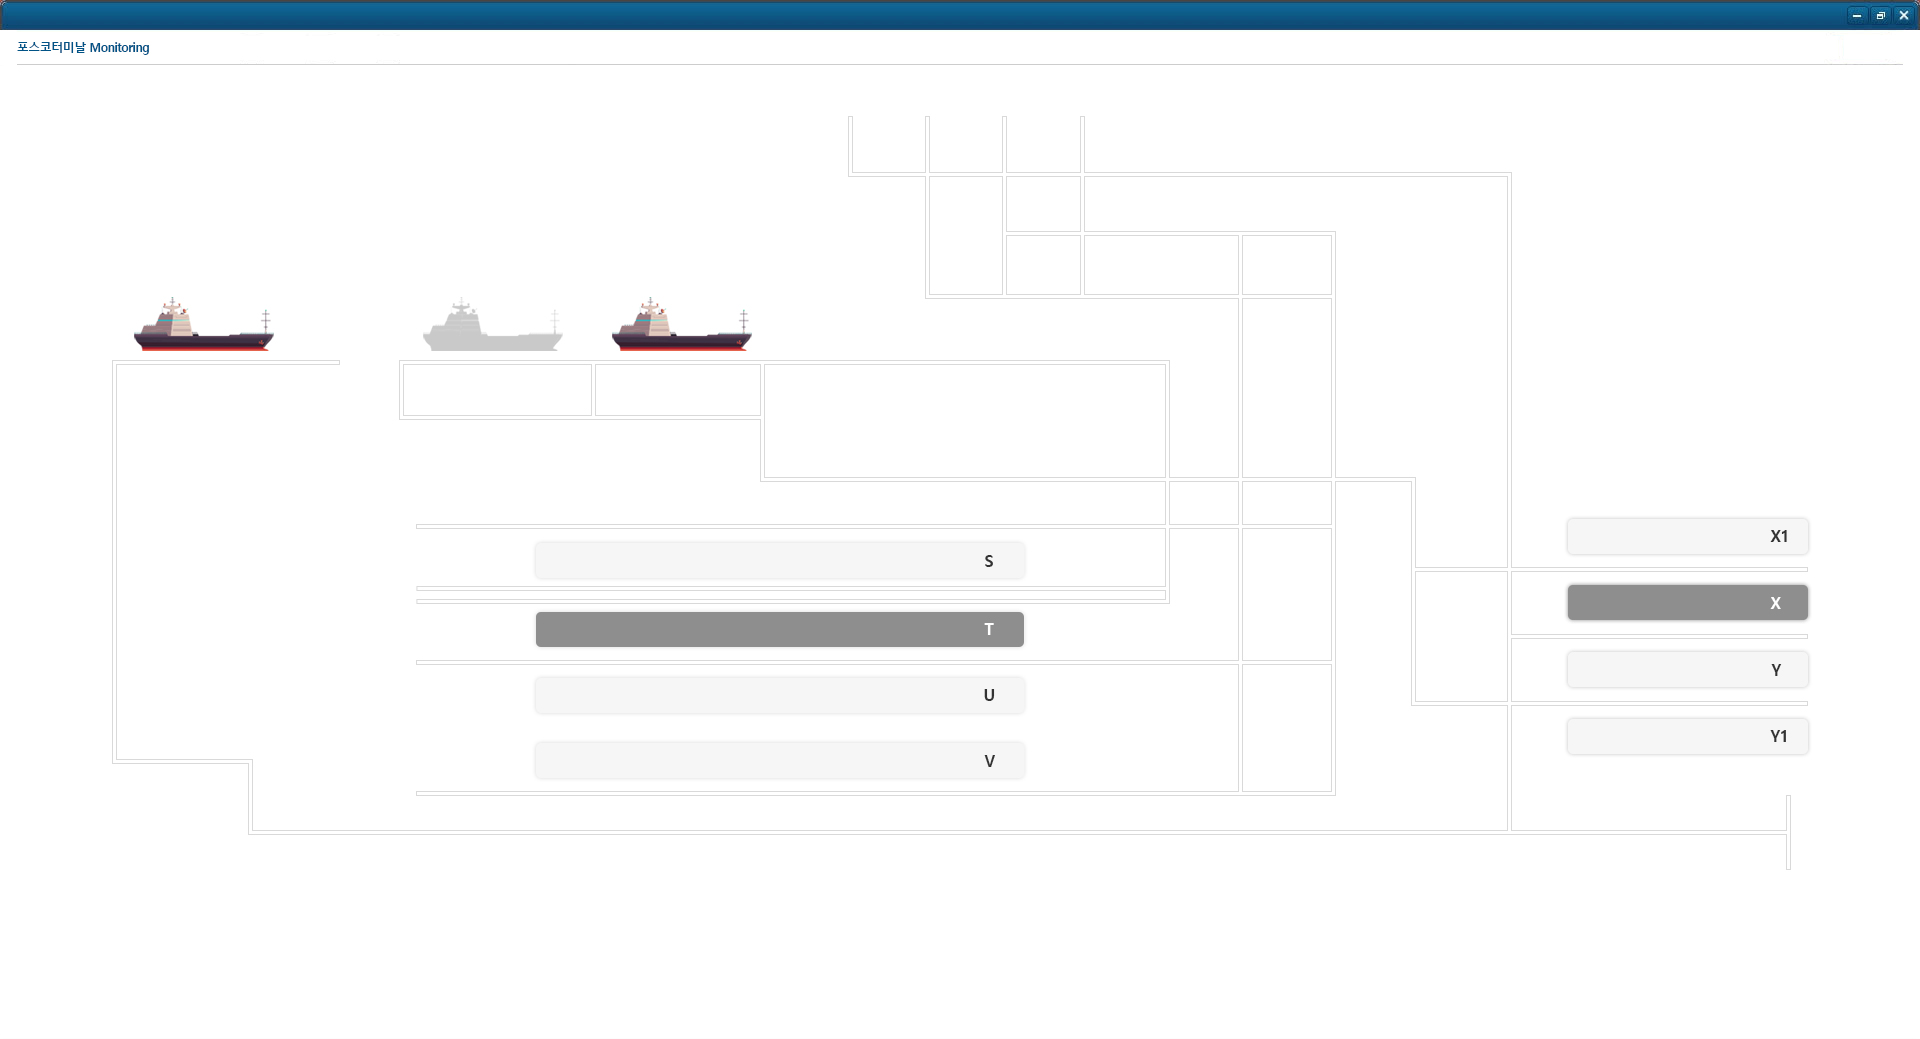
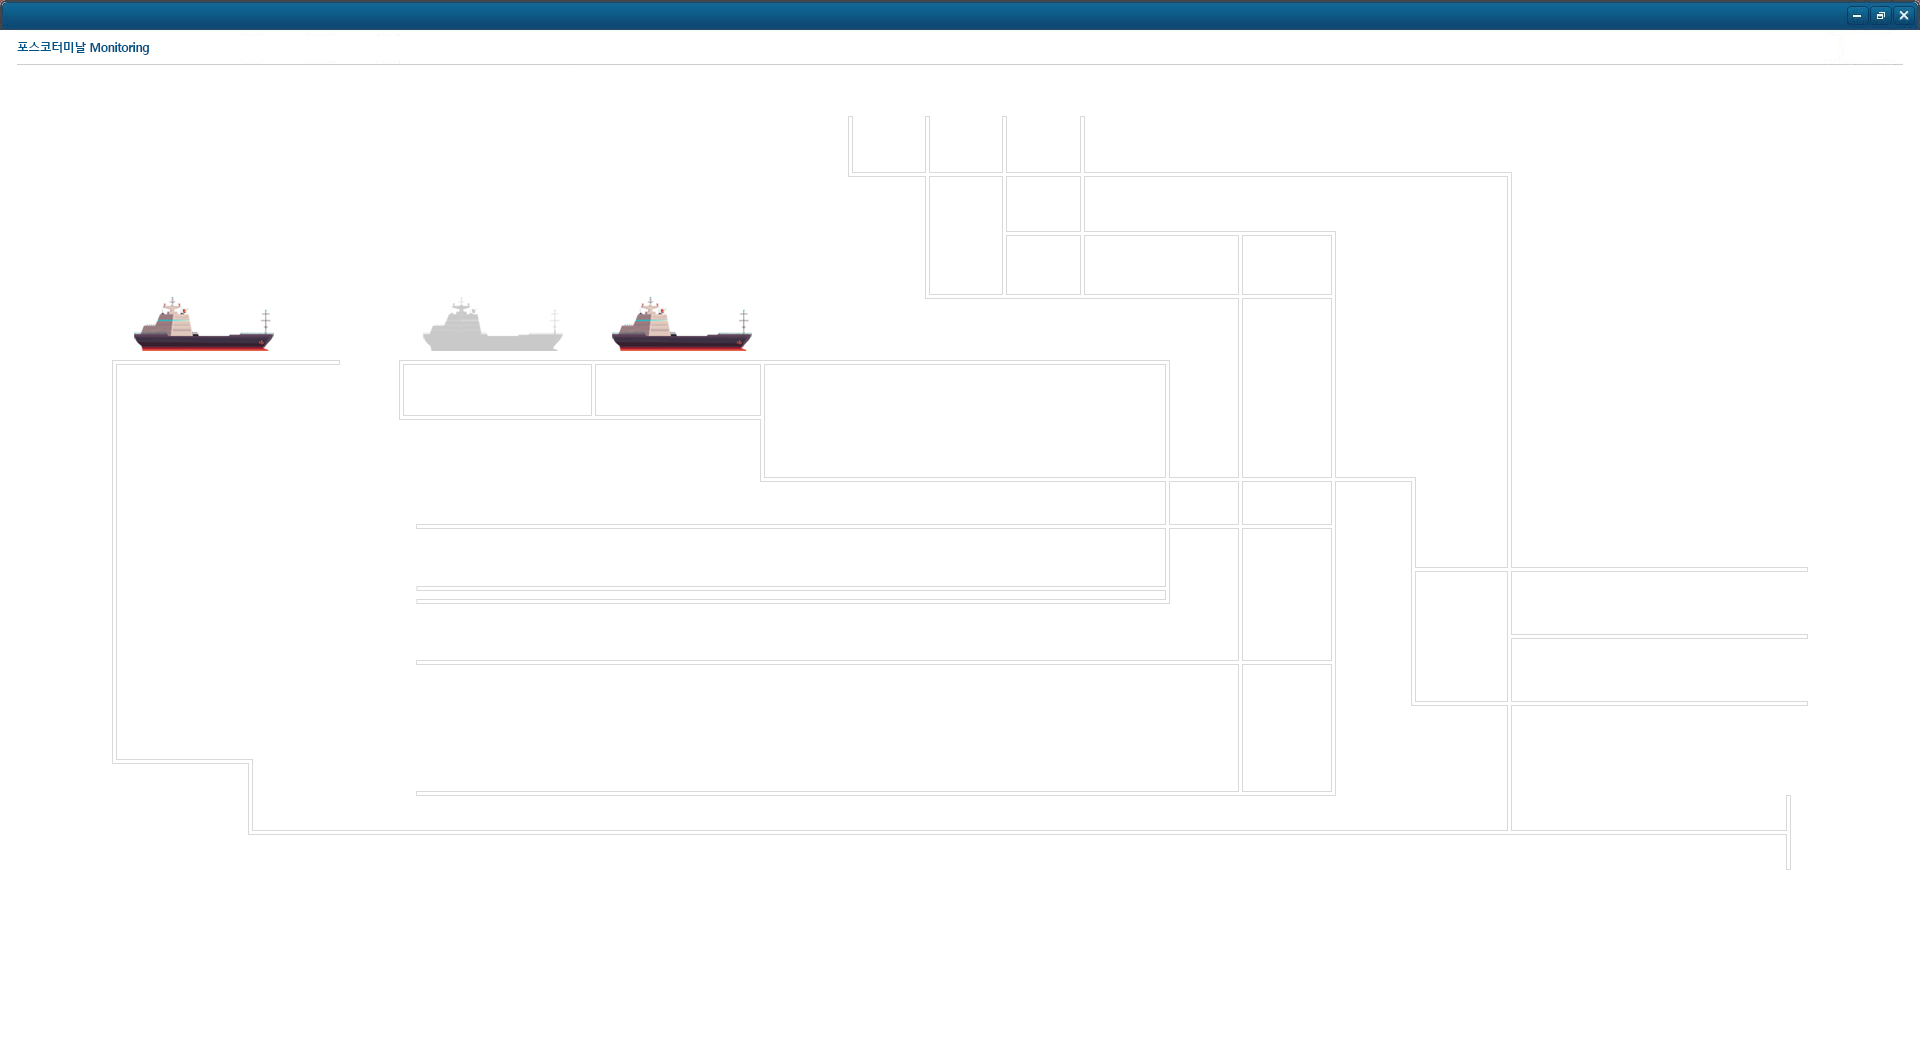
css수정

Changed region(s): [[0.2812, 0.5852, 0.5312, 0.6468], [0.8125, 0.5544, 0.9688, 0.616]]

diff --git a/view.css b/view.css
@@ -151,33 +151,33 @@
 
 		/* 리크레이머 영역 */
 		.reclaimer_area > div{position:absolute;}
-		.rc511{left: 567px;bottom: 433px;width: 65px; height: 65px; background:url('img/reclaimer_on_new.gif')no-repeat; cursor:pointer;}
+		.rc511{left: 567px;bottom: 433px;width: 65px; height: 65px; background:url('img/reclaimer_on_new.gif')no-repeat; cursor:pointer; z-index:2;}
 		/* .rc511 .rc_on{position:absolute; bottom:-12px; left:-10px;} */
-		.rc511 .rc_on{position:relative; left: 16px; top: 7px; font-weight:bold; font-size:12px; transform: rotate(-41deg);}
-		.rc512{left:894px; bottom: 471px; width:88px; height:30px; background:url('img/reclaimer_off.gif')no-repeat;}
-		.rc512 .rc_off{position:relative;left: 33px;top: 8px;font-weight:bold;font-size:12px;}
+		.rc511 .rc_on{position:relative; left: 16px; top: 7px; font-weight:bold; font-size:12px; transform: rotate(-41deg); z-index:2;}
+		.rc512{left:894px; bottom: 471px; width:88px; height:30px; background:url('img/reclaimer_off.gif')no-repeat; z-index:2;}
+		.rc512 .rc_off{position:relative;left: 33px;top: 8px;font-weight:bold;font-size:12px; z-index:2;}
 
-		.rc513{left:543px;bottom: 338px;width:88px;height:30px;background:url('img/reclaimer_off.gif')no-repeat;}
-		.rc513 .rc_off{position:relative; left:35px; top:7px; font-weight:bold; font-size:12px;}
+		.rc513{left:543px;bottom: 338px;width:88px;height:30px;background:url('img/reclaimer_off.gif')no-repeat; z-index:2;}
+		.rc513 .rc_off{position:relative; left:35px; top:7px; font-weight:bold; font-size:12px; z-index:2;}
 
-		.rc514{left:894px;bottom: 338px;width:88px;height:30px;background:url('img/reclaimer_off.gif')no-repeat;}
-		.rc514 .rc_off{position:relative;left: 33px;top: 8px;font-weight:bold;font-size:12px;}
+		.rc514{left:894px;bottom: 338px;width:88px;height:30px;background:url('img/reclaimer_off.gif')no-repeat; z-index:2;}
+		.rc514 .rc_off{position:relative;left: 33px;top: 8px;font-weight:bold;font-size:12px; z-index:2;}
 
-		.rc611{right:130px;bottom: 458px;width: 65px; height: 65px;  background:url('img/reclaimer_on_new.gif')no-repeat;}
-		.rc611 .rc_on{position:relative; left: 16px; top: 7px; font-weight:bold; font-size:12px; transform:rotate(-40deg)}
-		.rc612{right:130px;bottom: 363px;width:88px;height:30px;background:url('img/reclaimer_off.gif')no-repeat;}
-		.rc612 .rc_off{position:relative; left:35px; top:8px; font-weight:bold; font-size:12px;}
+		.rc611{right:130px;bottom: 458px;width: 65px; height: 65px;  background:url('img/reclaimer_on_new.gif')no-repeat; z-index:2;}
+		.rc611 .rc_on{position:relative; left: 16px; top: 7px; font-weight:bold; font-size:12px; transform:rotate(-40deg); z-index:2;}
+		.rc612{right:130px;bottom: 363px;width:88px;height:30px;background:url('img/reclaimer_off.gif')no-repeat; z-index:2;}
+		.rc612 .rc_off{position:relative; left:35px; top:8px; font-weight:bold; font-size:12px; z-index:2;}
 
 		/* 스태커 영역 */
 		.stack_area > div{position:absolute;}
-		.st501{left:762px; bottom: 540px; width:88px; height:30px; background:url('img/stacker_off.gif')no-repeat;}
-		.st501 .st_off{position:relative; left: 26px; top: 7px; font-weight:bold; font-size:12px;}
-		.st502{left:740px; bottom: 387px; width:95px; height:81px;  background:url('img/stacker_on.gif')no-repeat; cursor:pointer;}
-		.st502 .st_on{position: relative; left: 14px; top: 2px; font-weight: bold; font-size: 12px; transform: rotate(-42deg);}
-		.st503{left:762px;bottom: 272px; width:88px; height:30px; background:url('img/stacker_off.gif')no-repeat;}
+		.st501{left:762px; bottom: 540px; width:88px; height:30px; background:url('img/stacker_off.gif')no-repeat; z-index:2;}
+		.st501 .st_off{position:relative; left: 26px; top: 7px; font-weight:bold; font-size:12px; z-index:2;}
+		.st502{left:740px; bottom: 387px; width:95px; height:81px;  background:url('img/stacker_on.gif')no-repeat; cursor:pointer; z-index:2;}
+		.st502 .st_on{position: relative; left: 14px; top: 2px; font-weight: bold; font-size: 12px; transform: rotate(-42deg); z-index:2;}
+		.st503{left:762px;bottom: 272px; width:88px; height:30px; background:url('img/stacker_off.gif')no-repeat; z-index:2;}
 		.st503 .st_off{position:relative; left: 26px; top: 7px; font-weight:bold; font-size:12px;}
-		.st601{right:125px; bottom:430px; width:88px; height:30px; background:url('img/stacker_off.gif')no-repeat;}
-		.st601 .st_off{position:relative; left: 26px; top: 7px; font-weight:bold; font-size:12px;}
+		.st601{right:125px; bottom:430px; width:88px; height:30px; background:url('img/stacker_off.gif')no-repeat; z-index:2;}
+		.st601 .st_off{position:relative; left: 26px; top: 7px; font-weight:bold; font-size:12px; z-index:2;}
 
 		/* SL 영역 */
 		.sl_area > div{position:absolute;}
@@ -450,7 +450,33 @@
 		.wind_info p .w_value.green{color:#0bc300;}
 		.wind_info h3{font-size:16px; color:#333;}
 
-		/* 좌측 야드 */
-		.l_yard_area{position:absolute; left:530px; bottom:498px;}
-		.l_yard_area p{width:490px; height:35px; display:block;}
-		.l_yard_area .s_yard{background:url('img/l_yard_off.png')no-repeat;}
+	/* 좌측 야드 */
+		.l_yard_area{position:absolute; left:535px; bottom:302px; z-index:1;}
+		.l_yard_area p{width:490px; height:35px; display:block; text-align:right; background:#f6f6f6; position:static; border-radius:8px; box-shadow: 0px 0px 5px 0px rgba(0, 0, 0, 0.2); position:relative;}
+		.l_yard_area p:before{position:absolute; width:20px; height:20px; right:20px; top:10px; font-size:16px; font-weight:bold;}
+		.l_yard_area .v_yard{margin-top:30px;}
+		.l_yard_area .u_yard{margin-top:30px;}
+		.l_yard_area .t_yard{margin-top:35px;}
+		.l_yard_area .t_yard.on{background:#8e8e8e;}
+		.l_yard_area .s_yard{margin-top:0px;}
+		.l_yard_area .v_yard:before{content:'V';}
+		.l_yard_area .u_yard:before{content:'U';}
+		.l_yard_area .t_yard:before{content:'T';}
+		.l_yard_area .t_yard.on:before{color:#fff;}
+		.l_yard_area .s_yard:before{content:'S';}
+
+
+	/* 우측 야드 */
+		.r_yard_area{position:absolute; right:112px; bottom:327px; z-index:1;}
+		.r_yard_area p{width:240px; height:35px; display:block; text-align:right; background:#f6f6f6; position:static; border-radius:8px; box-shadow: 0px 0px 5px 0px rgba(0, 0, 0, 0.2); position:relative;}
+		.r_yard_area p:before{position:absolute; width:20px; height:20px; right:20px; top:10px; font-size:16px; font-weight:bold;}
+		.r_yard_area .y1_yard{margin-top:30px;}
+		.r_yard_area .y_yard{margin-top:33px;}
+		.r_yard_area .x_yard{margin-top:32px;}
+		.r_yard_area .x_yard.on{background:#8e8e8e;}
+		.r_yard_area .x1_yard{margin-top:0px;}
+		.r_yard_area .y1_yard:before{content:'Y1';}
+		.r_yard_area .y_yard:before{content:'Y';}
+		.r_yard_area .x_yard:before{content:'X';}
+		.r_yard_area .x_yard.on:before{color:#fff;}
+		.r_yard_area .x1_yard:before{content:'X1';}

diff --git a/view1_3.css b/view1_3.css
@@ -151,33 +151,33 @@
 
 		/* 리크레이머 영역 */
 		.reclaimer_area > div{position:absolute;}
-		.rc511{left: 567px;bottom: 433px;width: 65px; height: 65px; background:url('img/reclaimer_on_new.gif')no-repeat; cursor:pointer;}
+		.rc511{left: 567px;bottom: 433px;width: 65px; height: 65px; background:url('img/reclaimer_on_new.gif')no-repeat; cursor:pointer; z-index:2;}
 		/* .rc511 .rc_on{position:absolute; bottom:-12px; left:-10px;} */
-		.rc511 .rc_on{position:relative; left: 16px; top: 7px; font-weight:bold; font-size:12px; transform: rotate(-41deg);}
-		.rc512{left:894px; bottom: 471px; width:88px; height:30px; background:url('img/reclaimer_off.gif')no-repeat;}
-		.rc512 .rc_off{position:relative;left: 33px;top: 8px;font-weight:bold;font-size:12px;}
+		.rc511 .rc_on{position:relative; left: 16px; top: 7px; font-weight:bold; font-size:12px; transform: rotate(-41deg); z-index:2;}
+		.rc512{left:894px; bottom: 471px; width:88px; height:30px; background:url('img/reclaimer_off.gif')no-repeat; z-index:2;}
+		.rc512 .rc_off{position:relative;left: 33px;top: 8px;font-weight:bold;font-size:12px; z-index:2;}
 
-		.rc513{left:543px;bottom: 338px;width:88px;height:30px;background:url('img/reclaimer_off.gif')no-repeat;}
-		.rc513 .rc_off{position:relative; left:35px; top:7px; font-weight:bold; font-size:12px;}
+		.rc513{left:543px;bottom: 338px;width:88px;height:30px;background:url('img/reclaimer_off.gif')no-repeat; z-index:2;}
+		.rc513 .rc_off{position:relative; left:35px; top:7px; font-weight:bold; font-size:12px; z-index:2;}
 
-		.rc514{left:894px;bottom: 338px;width:88px;height:30px;background:url('img/reclaimer_off.gif')no-repeat;}
-		.rc514 .rc_off{position:relative;left: 33px;top: 8px;font-weight:bold;font-size:12px;}
+		.rc514{left:894px;bottom: 338px;width:88px;height:30px;background:url('img/reclaimer_off.gif')no-repeat; z-index:2;}
+		.rc514 .rc_off{position:relative;left: 33px;top: 8px;font-weight:bold;font-size:12px; z-index:2;}
 
-		.rc611{right:130px;bottom: 458px;width: 65px; height: 65px;  background:url('img/reclaimer_on_new.gif')no-repeat;}
-		.rc611 .rc_on{position:relative; left: 16px; top: 7px; font-weight:bold; font-size:12px; transform:rotate(-40deg)}
-		.rc612{right:130px;bottom: 363px;width:88px;height:30px;background:url('img/reclaimer_off.gif')no-repeat;}
-		.rc612 .rc_off{position:relative; left:35px; top:8px; font-weight:bold; font-size:12px;}
+		.rc611{right:130px;bottom: 458px;width: 65px; height: 65px;  background:url('img/reclaimer_on_new.gif')no-repeat; z-index:2;}
+		.rc611 .rc_on{position:relative; left: 16px; top: 7px; font-weight:bold; font-size:12px; transform:rotate(-40deg); z-index:2;}
+		.rc612{right:130px;bottom: 363px;width:88px;height:30px;background:url('img/reclaimer_off.gif')no-repeat; z-index:2;}
+		.rc612 .rc_off{position:relative; left:35px; top:8px; font-weight:bold; font-size:12px; z-index:2;}
 
 		/* 스태커 영역 */
 		.stack_area > div{position:absolute;}
-		.st501{left:762px; bottom: 540px; width:88px; height:30px; background:url('img/stacker_off.gif')no-repeat;}
-		.st501 .st_off{position:relative; left: 26px; top: 7px; font-weight:bold; font-size:12px;}
-		.st502{left:740px; bottom: 387px; width:95px; height:81px;  background:url('img/stacker_on.gif')no-repeat; cursor:pointer;}
-		.st502 .st_on{position: relative; left: 14px; top: 2px; font-weight: bold; font-size: 12px; transform: rotate(-42deg);}
-		.st503{left:762px;bottom: 272px; width:88px; height:30px; background:url('img/stacker_off.gif')no-repeat;}
+		.st501{left:762px; bottom: 540px; width:88px; height:30px; background:url('img/stacker_off.gif')no-repeat; z-index:2;}
+		.st501 .st_off{position:relative; left: 26px; top: 7px; font-weight:bold; font-size:12px; z-index:2;}
+		.st502{left:740px; bottom: 387px; width:95px; height:81px;  background:url('img/stacker_on.gif')no-repeat; cursor:pointer; z-index:2;}
+		.st502 .st_on{position: relative; left: 14px; top: 2px; font-weight: bold; font-size: 12px; transform: rotate(-42deg); z-index:2;}
+		.st503{left:762px;bottom: 272px; width:88px; height:30px; background:url('img/stacker_off.gif')no-repeat; z-index:2;}
 		.st503 .st_off{position:relative; left: 26px; top: 7px; font-weight:bold; font-size:12px;}
-		.st601{right:125px; bottom:430px; width:88px; height:30px; background:url('img/stacker_off.gif')no-repeat;}
-		.st601 .st_off{position:relative; left: 26px; top: 7px; font-weight:bold; font-size:12px;}
+		.st601{right:125px; bottom:430px; width:88px; height:30px; background:url('img/stacker_off.gif')no-repeat; z-index:2;}
+		.st601 .st_off{position:relative; left: 26px; top: 7px; font-weight:bold; font-size:12px; z-index:2;}
 
 		/* SL 영역 */
 		.sl_area > div{position:absolute;}
@@ -450,7 +450,33 @@
 		.wind_info p .w_value.green{color:#0bc300;}
 		.wind_info h3{font-size:16px; color:#333;}
 
-		/* 좌측 야드 */
-		.l_yard_area{position:absolute; left:530px; bottom:498px;}
-		.l_yard_area p{width:490px; height:35px; display:block;}
-		.l_yard_area .s_yard{background:url('img/l_yard_off.png')no-repeat;}
+	/* 좌측 야드 */
+		.l_yard_area{position:absolute; left:535px; bottom:302px; z-index:1;}
+		.l_yard_area p{width:490px; height:35px; display:block; text-align:right; background:#f6f6f6; position:static; border-radius:8px; box-shadow: 0px 0px 5px 0px rgba(0, 0, 0, 0.2); position:relative;}
+		.l_yard_area p:before{position:absolute; width:20px; height:20px; right:20px; top:10px; font-size:16px; font-weight:bold;}
+		.l_yard_area .v_yard{margin-top:30px;}
+		.l_yard_area .u_yard{margin-top:30px;}
+		.l_yard_area .t_yard{margin-top:35px;}
+		.l_yard_area .t_yard.on{background:#8e8e8e;}
+		.l_yard_area .s_yard{margin-top:0px;}
+		.l_yard_area .v_yard:before{content:'V';}
+		.l_yard_area .u_yard:before{content:'U';}
+		.l_yard_area .t_yard:before{content:'T';}
+		.l_yard_area .t_yard.on:before{color:#fff;}
+		.l_yard_area .s_yard:before{content:'S';}
+
+
+	/* 우측 야드 */
+		.r_yard_area{position:absolute; right:112px; bottom:327px; z-index:1;}
+		.r_yard_area p{width:240px; height:35px; display:block; text-align:right; background:#f6f6f6; position:static; border-radius:8px; box-shadow: 0px 0px 5px 0px rgba(0, 0, 0, 0.2); position:relative;}
+		.r_yard_area p:before{position:absolute; width:20px; height:20px; right:20px; top:10px; font-size:16px; font-weight:bold;}
+		.r_yard_area .y1_yard{margin-top:30px;}
+		.r_yard_area .y_yard{margin-top:33px;}
+		.r_yard_area .x_yard{margin-top:32px;}
+		.r_yard_area .x_yard.on{background:#8e8e8e;}
+		.r_yard_area .x1_yard{margin-top:0px;}
+		.r_yard_area .y1_yard:before{content:'Y1';}
+		.r_yard_area .y_yard:before{content:'Y';}
+		.r_yard_area .x_yard:before{content:'X';}
+		.r_yard_area .x_yard.on:before{color:#fff;}
+		.r_yard_area .x1_yard:before{content:'X1';}

diff --git a/view1_2.html b/view1_2.html
@@ -405,7 +405,6 @@
 						<div class="offline_tag">
 							<p class="a121-1">A121-1</p>
 							<p class="a601">A601</p>
-							<p class="a604">A604</p>
 							<p class="a511">A511</p>
 							<p class="a512">A512</p>
 							<p class="a513">A513</p>
@@ -415,7 +414,8 @@
 							<p class="a504">A504</p>
 							<p class="a514">A514</p>
 							<p class="a605">A605</p>
-							<p class="c602">C602</p>
+							<p class="a604">A604</p>
+							<!--<p class="a602">A602</p>-->
 							<p class="a810">A810</p>
 						</div>
 
@@ -452,11 +452,22 @@
 								<p class="pm_ico">PM10<span class="w_value green">10</span></p>
 							</div>
 						</div>
+						<div class="l_yard_area">
+							<p class="s_yard"></p>
+							<p class="t_yard on"></p>
+							<p class="u_yard"></p>
+							<p class="v_yard"></p>
+						</div>
+						<div class="r_yard_area">
+							<p class="x1_yard"></p>
+							<p class="x_yard on"></p>
+							<p class="y_yard"></p>
+							<p class="y1_yard"></p>
+						</div>
 					</div>
 				</div>
 			</div>
 		</div>
-
 
 		<div class="popup_area notice_popup">
 			<h2>알림 상세정보</h2>
@@ -557,11 +568,10 @@
 					<button class="save_btn popup_btn">저장</button>
 				</div>
 				<div class="repair_write">
-					<h4>정비 리스트</h4>
 					<div class="data_check">
 						<p>기간<span class="check_form"><input type="data" class="form start_datapick"/> ~ <input type="data" class="form start_datapick"/></span></p>
-						<button class="list_btn btn popup_btn">조회</button>
 					</div>
+					<button class="list_btn btn popup_btn">조회</button>
 					<table>
 						<tr>
 							<td class="t_title title_num">NO</td>
@@ -828,7 +838,7 @@
 			<h2>오류 상세정보</h2>
 			<div class="table_area">
 				<div class="bump_info">
-					<h4>A603 오류 상세정보</h4>
+					<h4>A603 - A604 오류 상세정보</h4>
 					<table>
 						<tr>
 							<td class="data_name">오류내용</td>
@@ -840,7 +850,7 @@
 			<button class="popup_close">닫기</button>
 		</div>
 		<script type="text/javascript">
-				$(".error_ico, .a603").click(function(){
+				$(".error_ico, .a604, .a603").click(function(){
 					$(".err_popup").css('display','block');
 				});
 				$(".err_popup .popup_close").click(function(){

diff --git a/view1_3.html b/view1_3.html
@@ -194,7 +194,7 @@
 							<p class="toff_504"><img src="img/passage7.gif"></p>
 							<p class="toff_603"><img src="img/passage2.gif"></p>
 							<p class="toff_605"><img src="img/passage10.gif"></p>
-							<p class="toff_604"><img src="img/passage6.gif"></p>
+							<p class="toff_604"><img src="img/passage5.gif"></p>
 						</div>
 					</div>
 					<div class="nickel_area">
@@ -414,6 +414,7 @@
 							<p class="a504">A504</p>
 							<p class="a514">A514</p>
 							<p class="a605">A605</p>
+							<p class="a604">A604</p>
 							<!--<p class="a602">A602</p>-->
 							<p class="a810">A810</p>
 						</div>
@@ -421,14 +422,17 @@
 						<div class="error_tag">
 							<p class="a602 repair_t">A602</p>
 							<p class="a603 error_t">A603</p>
-							<p class="a604 error_t">A604</p>
 						</div>
 
 						<div class="pump_tag">
+							<div class="p_top">
 							<p class="pump1"><img src="img/pump_on.gif"/>Pump1</p>
 							<p class="pump2"><img src="img/pump_off.gif"/>Pump2</p>
+							</div>
+							<div class="p_bottom">
 							<p class="pump3"><img src="img/pump_on.gif"/>Pump3</p>
 							<p class="pump4"><img src="img/pump_off.gif"/>Pump4</p>
+							</div>
 						</div>
 
 						<!--
@@ -449,10 +453,16 @@
 							</div>
 						</div>
 						<div class="l_yard_area">
-							<p class="s_yard">S</p>
-							<p class="t_yard">T</p>
-							<p class="u_yard">U</p>
-							<p class="v_yard">V</p>
+							<p class="s_yard"></p>
+							<p class="t_yard on"></p>
+							<p class="u_yard"></p>
+							<p class="v_yard"></p>
+						</div>
+						<div class="r_yard_area">
+							<p class="x1_yard"></p>
+							<p class="x_yard on"></p>
+							<p class="y_yard"></p>
+							<p class="y1_yard"></p>
 						</div>
 					</div>
 				</div>
